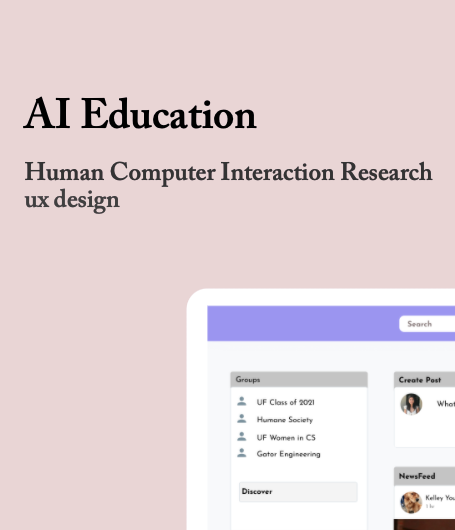
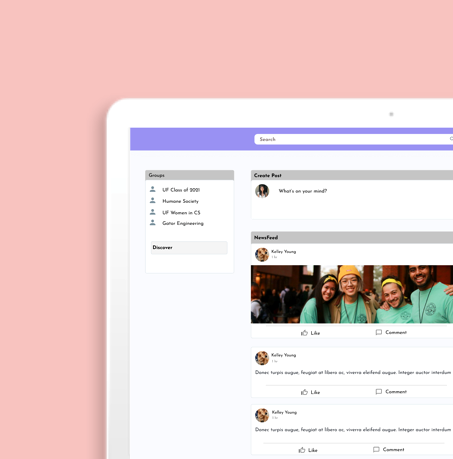
updated cover photos

diff --git a/index.html b/index.html
@@ -89,7 +89,7 @@
                     <a class="works1" href="sublist_edited.html">
                         <div class="img-zoom">
                             <figure>
-                                <img src="images/cover-photos/sublist.png" class="img-fluid rounded" alt="responsive">
+                                <img src="images/cover-photos/Sublist_.png" class="img-fluid rounded" alt="responsive">
                             </figure>
                         </div>
                     </a>
@@ -102,7 +102,8 @@
                     <a class="works1" href="lprc_edited.html">
                         <div class="img-zoom">
                             <figure>
-                                <img src="images/cover-photos/lprc_proj.png" class="img-fluid rounded" alt="responsive">
+                                <img src="images/cover-photos/Self_Checkout.png" class="img-fluid rounded"
+                                    alt="responsive">
                             </figure>
                         </div>
                     </a>
@@ -111,7 +112,7 @@
                     <a class="works1" href="googlephotos_edited.html">
                         <div class="img-zoom">
                             <figure>
-                                <img src="images/cover-photos/googlephotos.png" class="img-fluid rounded"
+                                <img src="images/cover-photos/Google_Photos.png" class="img-fluid rounded"
                                     alt="responsive">
                             </figure>
                         </div>

diff --git a/style.css b/style.css
@@ -1,5 +1,6 @@
 /* style sheet */
 @import url('https://fonts.googleapis.com/css2?family=IBM+Plex+Mono:ital,wght@0,100;0,200;0,300;0,400;0,500;0,600;0,700;1,100;1,200;1,300;1,400;1,500;1,600;1,700&family=Roboto+Mono&display=swap');
+@import url('https://fonts.googleapis.com/css2?family=PT+Sans:ital,wght@0,400;0,700;1,400;1,700&display=swap');
 
 html {
     scroll-behavior: smooth;
@@ -8,6 +9,10 @@ html {
 body {
     overflow-x: hidden;
     font-family: 'IBM Plex Mono', monospace;
+}
+
+p {
+    font-family: 'PT Sans', sans-serif;
 }
 
 /* Navbar Styling */
@@ -180,7 +185,7 @@ body {
 }
 
 .works {
-    background: rgb(240, 237, 235);
+    background: rgb(250, 245, 239);
 }
 
 /*.row {
@@ -356,7 +361,7 @@ body {
 /*About*/
 .aboutme {
     height: 100vh;
-    background: rgb(240, 237, 235);
+    /*background: rgb(240, 237, 235);*/
 }
 
 .aboutme .description {
